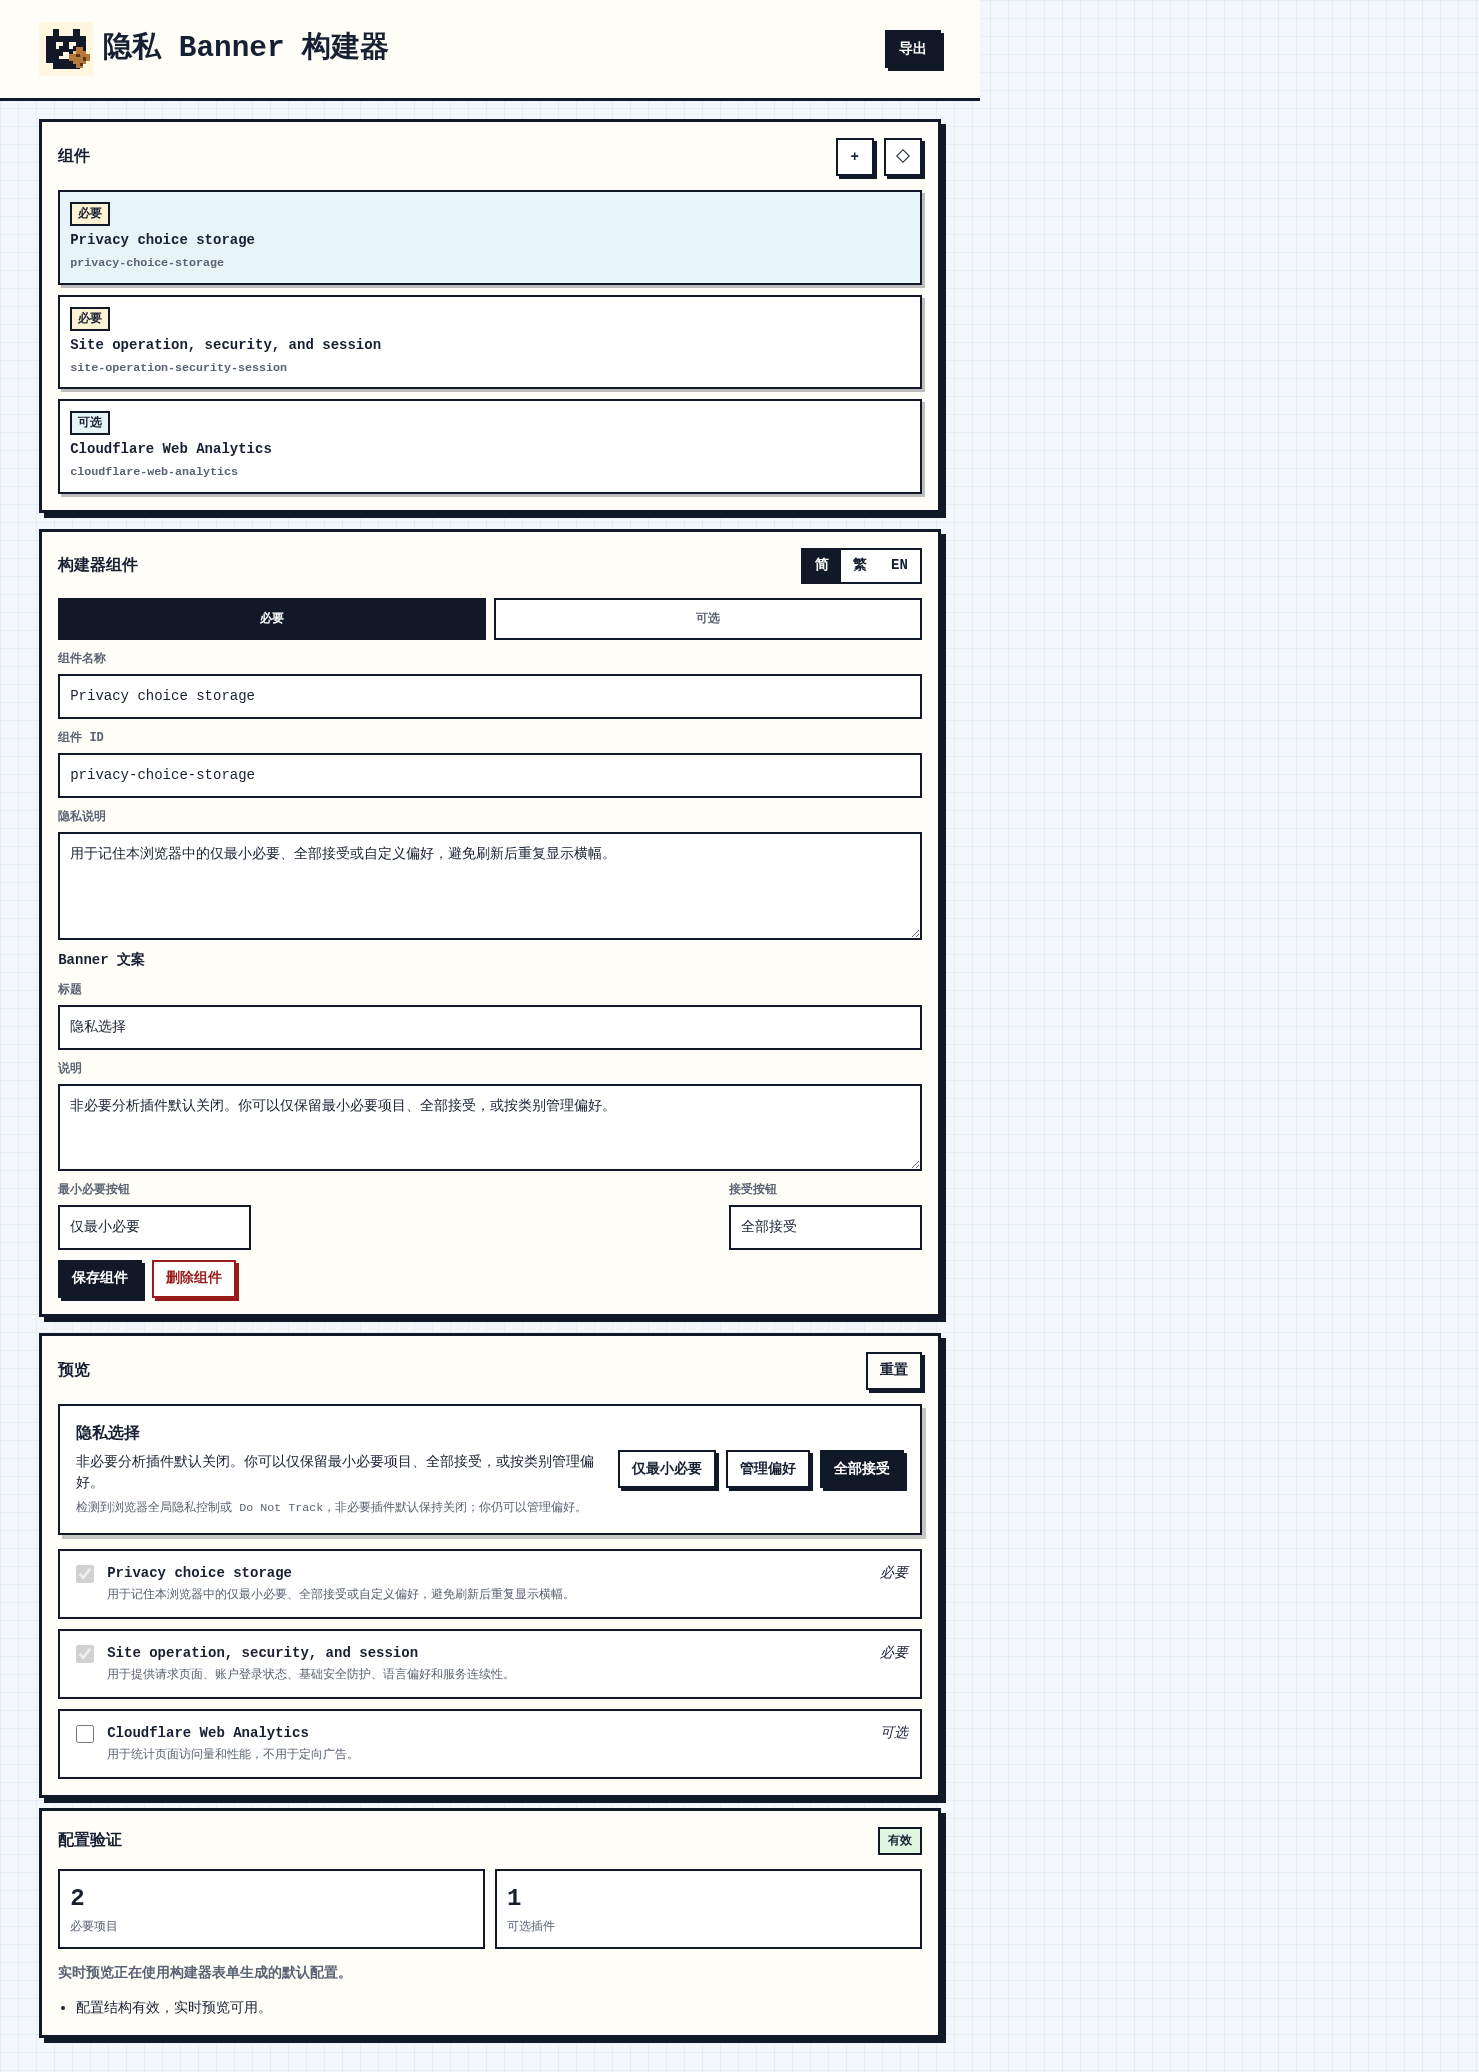
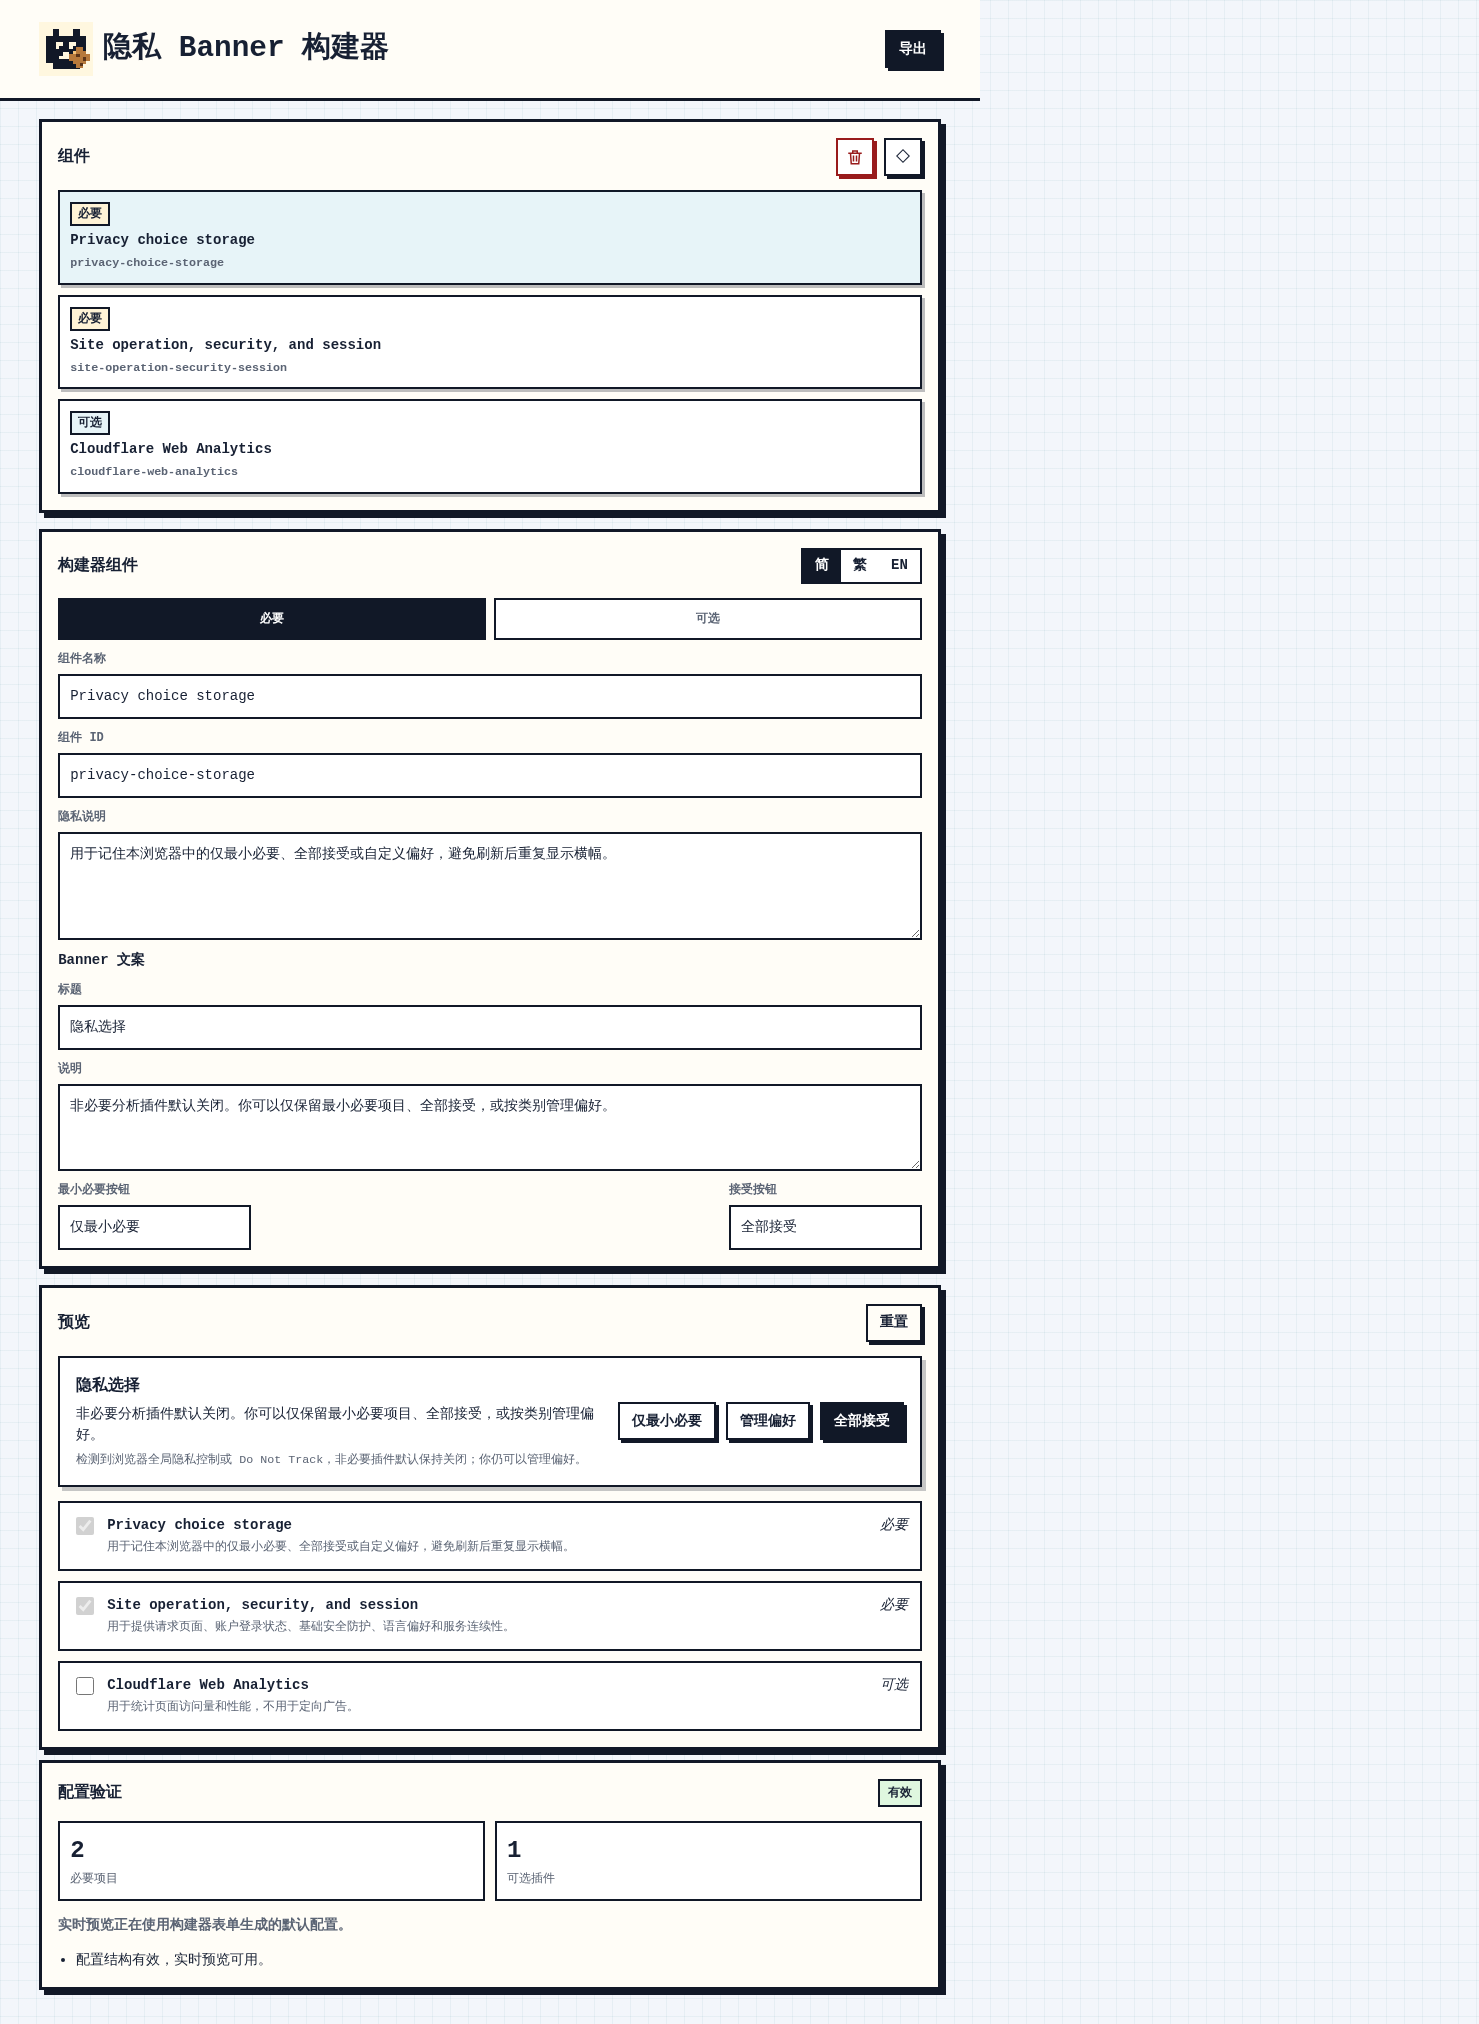
Simplify component toolbar actions

Changed region(s): [[0.0, 0.0, 0.6531, 0.996], [0.5909, 0.5603, 0.622, 0.5914]]

diff --git a/public/builder.js b/public/builder.js
@@ -6,8 +6,7 @@ const chromeCopy = {
     appTitle: "隐私 Banner 构建器",
     export: "导出",
     components: "组件",
-    addRequired: "新增必要组件",
-    addOptional: "新增可选组件",
+    addComponent: "新增组件",
     inspector: "构建器组件",
     language: "语言",
     componentType: "组件类型",
@@ -20,7 +19,6 @@ const chromeCopy = {
     category: "类别",
     componentToken: "组件 token（可选）",
     componentTokenHint: "按组件提供方要求填写；不需要 token 的组件可留空。",
-    saveComponent: "保存组件",
     deleteComponent: "删除组件",
     bannerCopy: "Banner 文案",
     bannerTitleLabel: "标题",
@@ -61,8 +59,7 @@ const chromeCopy = {
     appTitle: "隱私 Banner 建構器",
     export: "匯出",
     components: "組件",
-    addRequired: "新增必要組件",
-    addOptional: "新增可選組件",
+    addComponent: "新增組件",
     inspector: "建構器組件",
     language: "語言",
     componentType: "組件類型",
@@ -75,7 +72,6 @@ const chromeCopy = {
     category: "類別",
     componentToken: "組件 token（可選）",
     componentTokenHint: "依組件提供方要求填寫；不需要 token 的組件可留空。",
-    saveComponent: "儲存組件",
     deleteComponent: "刪除組件",
     bannerCopy: "Banner 文案",
     bannerTitleLabel: "標題",
@@ -116,8 +112,7 @@ const chromeCopy = {
     appTitle: "Privacy Banner Builder",
     export: "Export",
     components: "Components",
-    addRequired: "Add required component",
-    addOptional: "Add optional component",
+    addComponent: "Add component",
     inspector: "Builder Component",
     language: "Language",
     componentType: "Component type",
@@ -130,7 +125,6 @@ const chromeCopy = {
     category: "Category",
     componentToken: "Component token (optional)",
     componentTokenHint: "Fill only when the component provider requires one; leave blank otherwise.",
-    saveComponent: "Save component",
     deleteComponent: "Delete component",
     bannerCopy: "Banner copy",
     bannerTitleLabel: "Title",
@@ -602,13 +596,7 @@ form.addEventListener("input", () => {
   refresh();
 });
 
-document.querySelector("#add-required").addEventListener("click", () => addComponent("required"));
-document.querySelector("#add-optional").addEventListener("click", () => addComponent("optional"));
-document.querySelector("#save-component").addEventListener("click", () => {
-  syncFormToState();
-  renderForm();
-  refresh();
-});
+document.querySelector("#add-component").addEventListener("click", () => addComponent("optional"));
 deleteComponentButton.addEventListener("click", deleteSelectedComponent);
 document.querySelector("#reset-demo").addEventListener("click", () => {
   localStorage.removeItem("mycookies_builder_state_v2");

diff --git a/public/index.html b/public/index.html
@@ -35,8 +35,12 @@
         <div class="section-heading">
           <h2 id="components-title" data-i18n="components">组件</h2>
           <div class="mini-actions">
-            <button type="button" class="icon-button" id="add-required" title="新增必要组件" aria-label="新增必要组件" data-i18n-title="addRequired" data-i18n-aria="addRequired">+</button>
-            <button type="button" class="icon-button" id="add-optional" title="新增可选组件" aria-label="新增可选组件" data-i18n-title="addOptional" data-i18n-aria="addOptional">◇</button>
+            <button type="button" class="icon-button danger" id="delete-component" title="删除组件" aria-label="删除组件" data-i18n-title="deleteComponent" data-i18n-aria="deleteComponent">
+              <svg viewBox="0 0 24 24" aria-hidden="true" width="18" height="18">
+                <path d="M4 7h16M10 11v6M14 11v6M6 7l1 14h10l1-14M9 7V4h6v3" fill="none" stroke="currentColor" stroke-width="2" stroke-linecap="square" />
+              </svg>
+            </button>
+            <button type="button" class="icon-button" id="add-component" title="新增组件" aria-label="新增组件" data-i18n-title="addComponent" data-i18n-aria="addComponent">◇</button>
           </div>
         </div>
         <div class="component-list" id="component-list"></div>
@@ -116,11 +120,6 @@
               <span data-i18n="acceptButton">接受按钮</span>
               <input name="acceptAll" autocomplete="off" />
             </label>
-          </div>
-
-          <div class="form-actions">
-            <button type="button" class="dark" id="save-component" data-i18n="saveComponent">保存组件</button>
-            <button type="button" class="danger" id="delete-component" data-i18n="deleteComponent">删除组件</button>
           </div>
         </form>
       </section>

diff --git a/public/builder.css b/public/builder.css
@@ -94,7 +94,6 @@ textarea:focus-visible {
 .preview-actions,
 .dialog-actions,
 .export-actions,
-.form-actions,
 .split {
   display: flex;
   gap: 10px;
@@ -159,23 +158,18 @@ h3 {
 }
 
 .icon-button {
+  display: inline-grid;
+  place-items: center;
   width: 38px;
   padding: 0;
 }
 
 .component-list,
 .component-form,
-.form-actions,
 .preference-preview,
 .preview-column {
   display: grid;
   gap: 10px;
-}
-
-.form-actions {
-  display: flex;
-  flex-wrap: wrap;
-  justify-content: flex-start;
 }
 
 .component-list {
